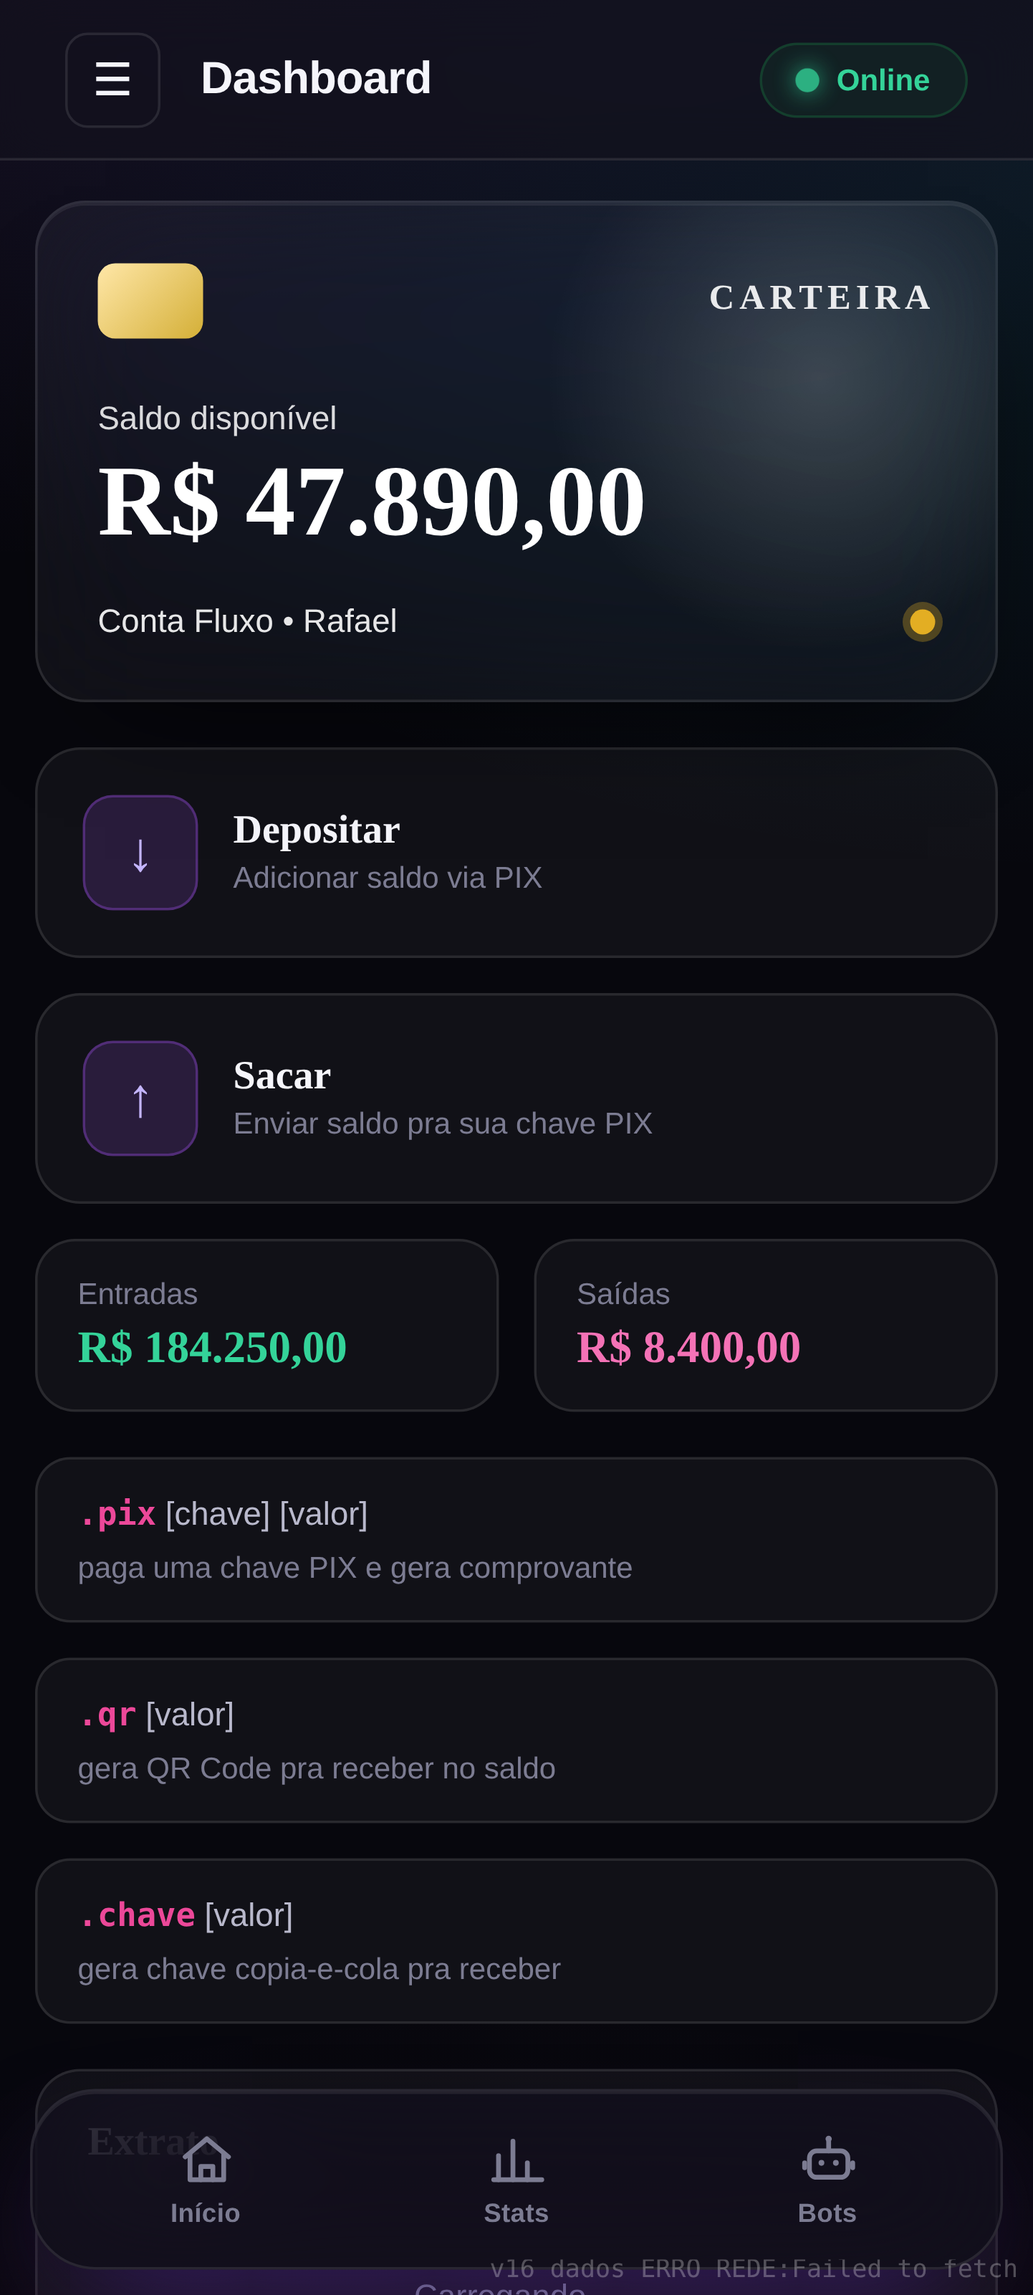
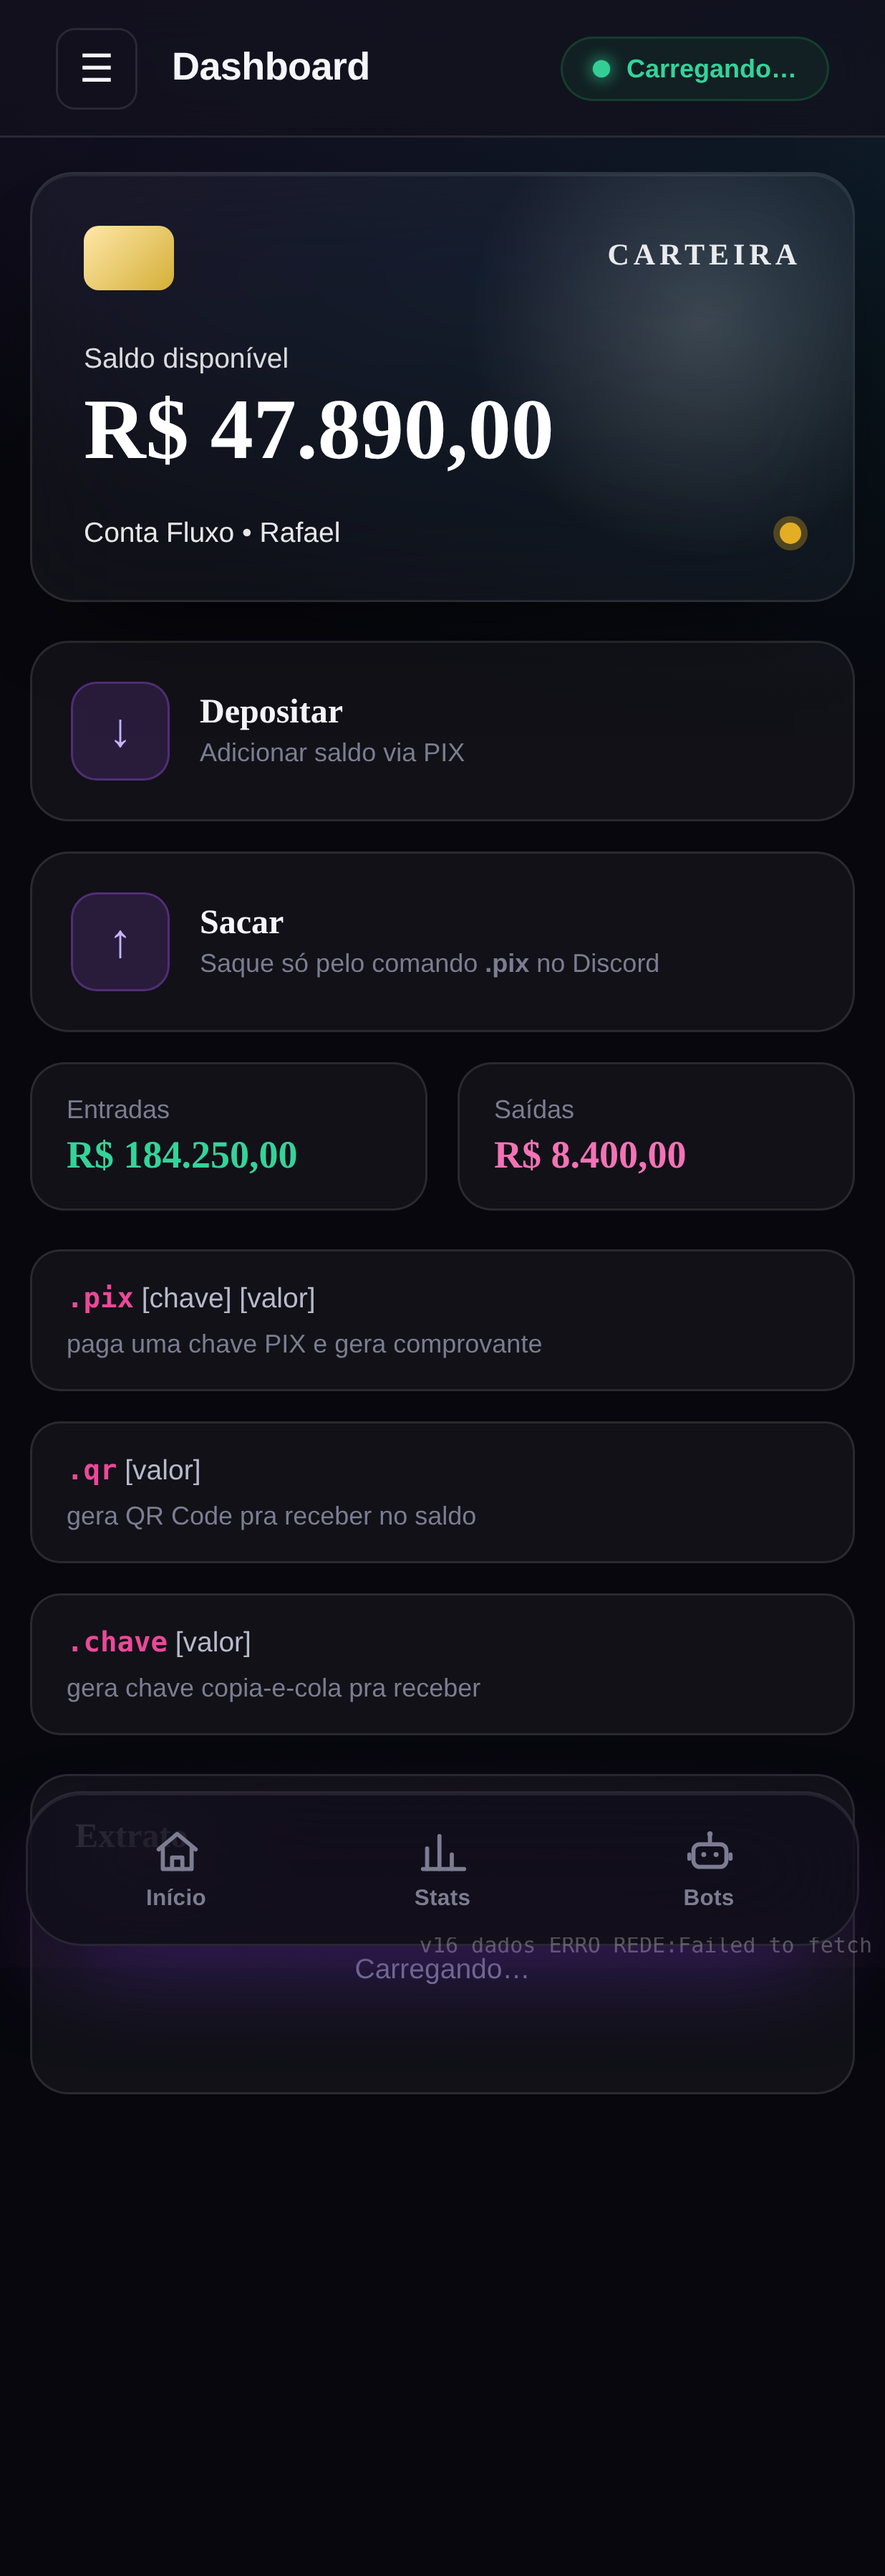
Bots: config do bot embutida + Carteira saca só via comando .pix
- View Bots agora traz a configuração do bot (mesmo nó DOM da página de
  config, sem duplicar ids/handlers) abaixo do controle rápido
- Carteira/wallet2: botão Sacar vira informativo (saque só pelo comando
  .pix no Discord); painel mantém saldo, depósito e extrato
- Mockups atualizados

diff --git a/painelcliente/templates/index.html b/painelcliente/templates/index.html
@@ -2398,6 +2398,24 @@ img{ -webkit-user-drag:none; user-drag:none; pointer-events:auto; }
 .bots-quick-btn.restart{ background:linear-gradient(135deg,rgba(168,85,247,0.18),rgba(168,85,247,0.04)); border-color:rgba(168,85,247,0.35); color:#d6bcff; }
 .bots-quick-btn.stop{ background:linear-gradient(135deg,rgba(239,68,68,0.16),rgba(239,68,68,0.04)); border-color:rgba(239,68,68,0.32); color:#fca5a5; }
 
+/* ── Config embutida na view Bots ── */
+.bots-config{
+  border-radius:22px; overflow:hidden;
+  border:1px solid var(--border); background:var(--card);
+  box-shadow:0 1px 0 0 rgba(255,255,255,0.06) inset, 0 18px 40px -28px rgba(0,0,0,0.8);
+  backdrop-filter:blur(22px) saturate(140%); -webkit-backdrop-filter:blur(22px) saturate(140%);
+}
+.bots-config .config-page{ border:none !important; background:transparent !important; box-shadow:none !important; backdrop-filter:none !important; }
+.bots-config .btn-voltar{ display:none !important; }
+.bots-cfg-empty{ padding:26px; text-align:center; color:var(--text3); font-size:13px; }
+
+/* ── Destaque temporário no comando .pix quando o usuário toca em "Sacar" ── */
+.wlt-cmd-hl{
+  border-color:rgba(168,85,247,0.6) !important;
+  box-shadow:0 0 0 1px rgba(168,85,247,0.4), 0 0 22px -4px rgba(168,85,247,0.8) !important;
+  transition:box-shadow .25s, border-color .25s;
+}
+
 /* desktop: a view Bots fica enxuta e centralizada (caso acessada via teclado) */
 @media (min-width:641px){
   #view-bots{ max-width:760px; }
@@ -2958,9 +2976,9 @@ img{ -webkit-user-drag:none; user-drag:none; pointer-events:auto; }
             <span class="wlt-action-ico">↓</span>
             <div><div class="wlt-action-t">Depositar</div><div class="wlt-action-s">Adicionar saldo via PIX</div></div>
           </button>
-          <button class="wlt-action sacar" onclick="abrirSacarWallet2()">
+          <button class="wlt-action sacar" onclick="infoSaqueComando()">
             <span class="wlt-action-ico">↑</span>
-            <div><div class="wlt-action-t">Sacar</div><div class="wlt-action-s">Enviar saldo pra sua chave PIX</div></div>
+            <div><div class="wlt-action-t">Sacar</div><div class="wlt-action-s">Saque só pelo comando <b>.pix</b> no Discord</div></div>
           </button>
           <div class="wlt-mini">
             <div class="wlt-mini-item"><div class="wlt-mini-lab">Entradas</div><div class="wlt-mini-val up">R$ <span id="wlt-entradas">0,00</span></div></div>
@@ -3026,6 +3044,11 @@ img{ -webkit-user-drag:none; user-drag:none; pointer-events:auto; }
         <button class="bots-quick-btn start" onclick="botAction('start')"><span>▶</span> Iniciar</button>
         <button class="bots-quick-btn restart" onclick="botAction('restart')"><span>↻</span> Reiniciar</button>
         <button class="bots-quick-btn stop" onclick="botAction('stop')"><span>■</span> Parar</button>
+      </div>
+
+      <div class="bots-sec-title" style="margin-top:24px;">Configuração do bot</div>
+      <div class="bots-config" id="bots-config-host">
+        <div class="bots-cfg-empty">Carregando configurações…</div>
       </div>
     </div>
 
@@ -3562,6 +3585,17 @@ function carregarBots(){
     set('bots-saldo-salas', txt('hero-saldo') || '0');
     const atend = (parseInt(txt('ev-pagamentos'))||0) + (parseInt(txt('ev-gos'))||0) + (parseInt(txt('ev-msgs'))||0);
     set('bots-atend', atend + ' interações hoje');
+
+    // Traz a configuração do bot pra dentro da view Bots. Reaproveita o MESMO
+    // nó DOM da página de config (ids/handlers intactos, sem duplicar) — só
+    // muda de lugar uma vez. renderConfig() continua atualizando normalmente.
+    const host = document.getElementById('bots-config-host');
+    const cfgPage = document.querySelector('#view-config .config-page');
+    if (host && cfgPage && cfgPage.parentElement !== host){
+      host.innerHTML = '';
+      host.appendChild(cfgPage);
+    }
+    try { if (typeof renderConfig === 'function') renderConfig(); } catch(e) {}
   } catch(e) {}
 }
 // Toggle do bot a partir da view Bots → reaproveita botAction()
@@ -3651,6 +3685,17 @@ async function abrirDepositar(){
   } catch(e){ toast('Erro de rede ao gerar PIX.', 'erro'); }
 }
 
+function infoSaqueComando(){
+  // Saque da carteira/wallet2 é feito SÓ pelo comando no Discord (.pix).
+  // O painel só exibe saldo e extrato.
+  toast('Saque é feito pelo comando .pix [chave] [valor] no Discord.', 'ok');
+  const cmds = document.querySelector('.wlt-cmds');
+  if (cmds){
+    cmds.scrollIntoView({behavior:'smooth', block:'center'});
+    const pix = cmds.querySelector('.wlt-cmd');
+    if (pix){ pix.classList.add('wlt-cmd-hl'); setTimeout(()=>pix.classList.remove('wlt-cmd-hl'), 2200); }
+  }
+}
 async function abrirSacarWallet2(){
   // Saque da wallet2 (payout PIX): pede valor, tipo e chave PIX.
   const v = prompt('Quanto deseja sacar? (R$)\nMínimo R$ 1,00', '10');
